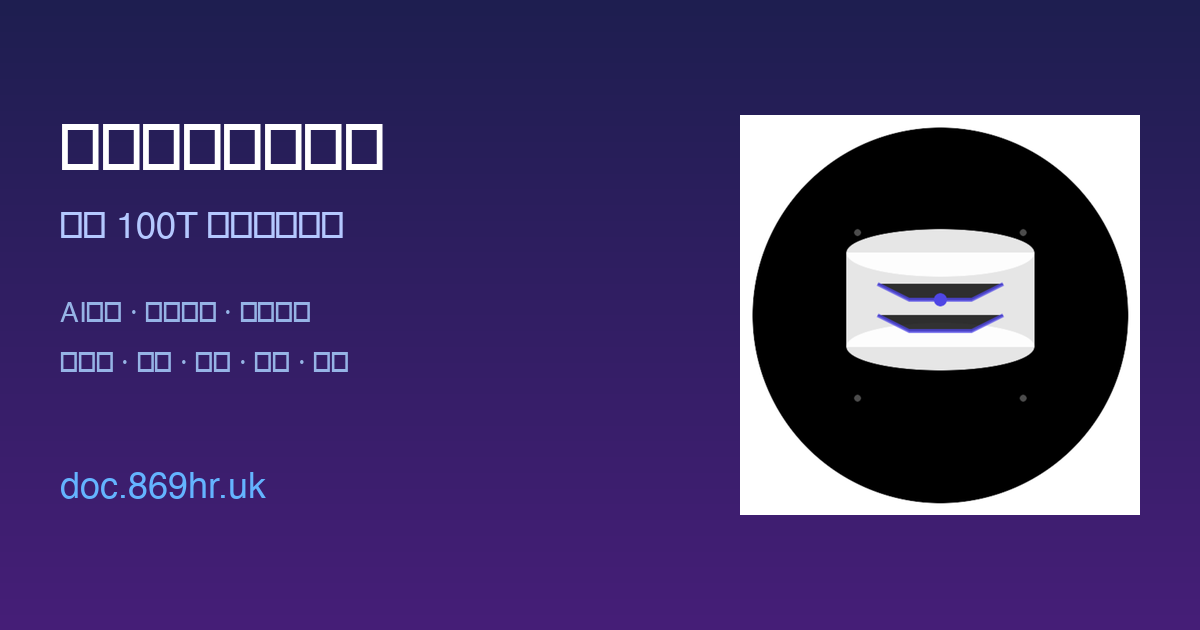
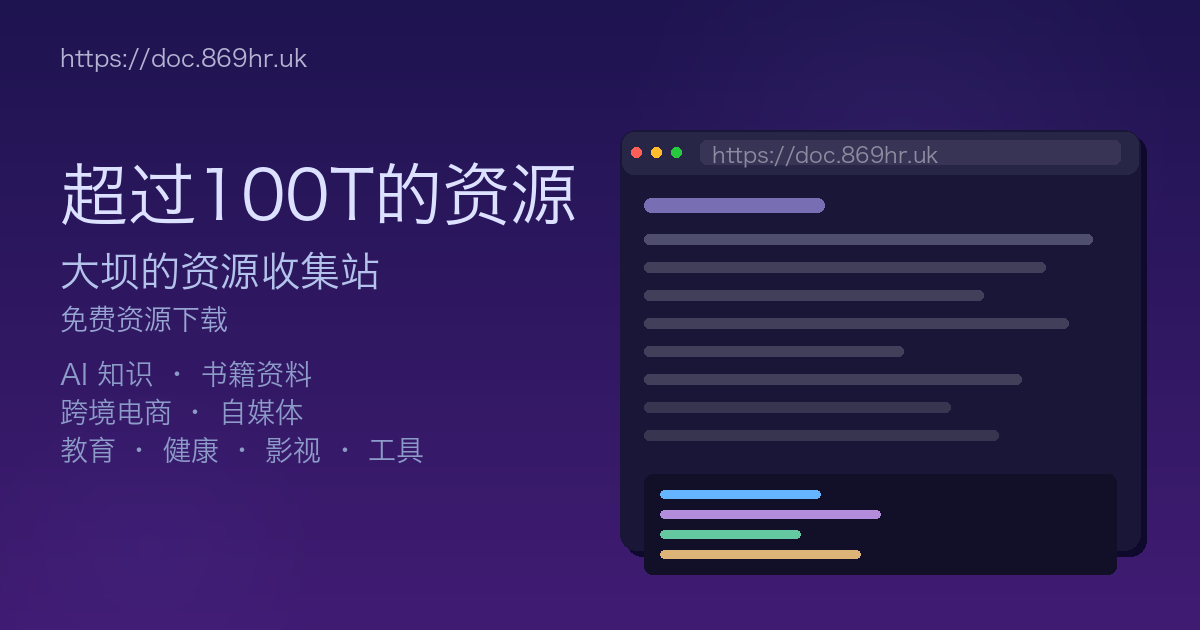
修复 OG 图片中文乱码：用冬青黑体重新渲染 Twitter 卡片缩略图
原图因生成工具缺少中文字体，中文被映射为拉丁字符。现用 Pillow + Hiragino Sans GB 重新生成，OCR 验证所有中文可正确识别。

diff --git a/scripts/generate_og_image.py b/scripts/generate_og_image.py
@@ -1,0 +1,191 @@
+#!/usr/bin/env python3
+"""Generate og-image.png for Twitter/OG cards with proper Chinese font rendering."""
+
+from PIL import Image, ImageDraw, ImageFont
+import math
+
+W, H = 1200, 630
+OUTPUT = "docs/public/og-image.png"
+
+# ── Fonts ──────────────────────────────────────────────
+font_path = "/System/Library/Fonts/Hiragino Sans GB.ttc"
+def load_font(size, weight="W6"):
+    """W6=Bold, W3=Regular"""
+    return ImageFont.truetype(font_path, size)
+
+font_url    = load_font(24, "W3")
+font_title  = load_font(68, "W6")
+font_sub    = load_font(40, "W3")
+font_tag    = load_font(28, "W3")
+font_code   = load_font(22, "W3")
+
+# ── Create image ───────────────────────────────────────
+img = Image.new("RGB", (W, H))
+draw = ImageDraw.Draw(img)
+
+# ── Background gradient ────────────────────────────────
+# Top: RGB(30, 20, 80), Bottom: RGB(60, 25, 110)
+for y in range(H):
+    t = y / H
+    r = int(30 + 35 * t)
+    g = int(20 + 8 * t)
+    b = int(80 + 35 * t)
+    draw.line([(0, y), (W, y)], fill=(r, g, b))
+
+# ── Subtle decorative elements ─────────────────────────
+# Large soft circle top-right
+cx, cy, cr = 900, 150, 300
+for y in range(max(0, cy - cr), min(H, cy + cr)):
+    for x in range(max(0, cx - cr), min(W, cx + cr)):
+        dx, dy = x - cx, y - cy
+        dist = math.sqrt(dx * dx + dy * dy)
+        if dist < cr:
+            alpha = max(0, 1 - dist / cr) * 0.06
+            r0, g0, b0 = img.getpixel((x, y))
+            r_new = int(r0 * (1 - alpha) + 180 * alpha)
+            g_new = int(g0 * (1 - alpha) + 150 * alpha)
+            b_new = int(b0 * (1 - alpha) + 255 * alpha)
+            draw.point((x, y), fill=(r_new, g_new, b_new))
+
+# Small glow bottom-left
+cx2, cy2, cr2 = 150, 550, 200
+for y in range(max(0, cy2 - cr2), min(H, cy2 + cr2)):
+    for x in range(max(0, cx2 - cr2), min(W, cx2 + cr2)):
+        dx, dy = x - cx2, y - cy2
+        dist = math.sqrt(dx * dx + dy * dy)
+        if dist < cr2:
+            alpha = max(0, 1 - dist / cr2) * 0.08
+            r0, g0, b0 = img.getpixel((x, y))
+            r_new = int(r0 * (1 - alpha) + 100 * alpha)
+            g_new = int(g0 * (1 - alpha) + 80 * alpha)
+            b_new = int(b0 * (1 - alpha) + 200 * alpha)
+            draw.point((x, y), fill=(r_new, g_new, b_new))
+
+# ── URL top-left ───────────────────────────────────────
+draw.text((60, 45), "https://doc.869hr.uk", fill=(180, 180, 210), font=font_url)
+
+# ── Main title ─────────────────────────────────────────
+# Gradient text: light blue to white
+title_y = 160
+draw.text((60, title_y), "超过100T的资源", fill=(220, 225, 255), font=font_title)
+
+# ── Subtitle ───────────────────────────────────────────
+draw.text((60, title_y + 90), "大坝的资源收集站", fill=(180, 195, 235), font=font_sub)
+
+# ── Tagline / description ──────────────────────────────
+draw.text((60, title_y + 145), "免费资源下载", fill=(150, 165, 210), font=font_tag)
+
+# ── Feature bullets ────────────────────────────────────
+features = [
+    "AI 知识 · 书籍资料",
+    "跨境电商 · 自媒体",
+    "教育 · 健康 · 影视 · 工具",
+]
+bullet_y = title_y + 200
+for i, feat in enumerate(features):
+    draw.text((60, bullet_y + i * 38), feat, fill=(140, 155, 200), font=font_tag)
+
+# ── Right side: Browser mockup ─────────────────────────
+panel_x, panel_y = 620, 130
+panel_w, panel_h = 520, 420
+
+# Shadow
+shadow_off = 6
+draw.rounded_rectangle(
+    [(panel_x + shadow_off, panel_y + shadow_off),
+     (panel_x + panel_w + shadow_off, panel_y + panel_h + shadow_off)],
+    radius=16, fill=(15, 10, 45)
+)
+
+# Panel body
+draw.rounded_rectangle(
+    [(panel_x, panel_y), (panel_x + panel_w, panel_y + panel_h)],
+    radius=16, fill=(25, 22, 55)
+)
+
+# Header bar
+header_h = 44
+draw.rounded_rectangle(
+    [(panel_x + 2, panel_y + 2), (panel_x + panel_w - 2, panel_y + header_h)],
+    radius=12, fill=(40, 38, 70)
+)
+
+# Browser dots
+dot_colors = [(255, 95, 87), (255, 189, 46), (39, 201, 63)]
+for i, color in enumerate(dot_colors):
+    dx = panel_x + 16 + i * 20
+    dy = panel_y + header_h // 2
+    draw.ellipse([(dx - 5, dy - 5), (dx + 5, dy + 5)], fill=color)
+
+# URL bar
+url_bar_x = panel_x + 80
+url_bar_w = panel_w - 100
+url_bar_h = 24
+draw.rounded_rectangle(
+    [(url_bar_x, panel_y + 10), (url_bar_x + url_bar_w, panel_y + 10 + url_bar_h)],
+    radius=6, fill=(55, 52, 85)
+)
+draw.text((url_bar_x + 12, panel_y + 13), "https://doc.869hr.uk", fill=(140, 140, 160), font=font_code)
+
+# Content area - simulated text lines
+content_x = panel_x + 24
+content_y = panel_y + header_h + 24
+line_w_full = panel_w - 48
+line_colors = [
+    (80, 78, 110),  # heading line
+    (65, 63, 90),   # body lines
+    (65, 63, 90),
+    (65, 63, 90),
+    (65, 63, 90),
+    (65, 63, 90),
+    (55, 53, 80),   # lighter
+    (55, 53, 80),
+    (55, 53, 80),
+]
+
+# A heading-like block
+draw.rounded_rectangle(
+    [(content_x, content_y), (content_x + 180, content_y + 14)],
+    radius=7, fill=(120, 110, 180)
+)
+
+# Body lines
+line_start_y = content_y + 36
+line_data = [
+    (0, 0.95), (0, 0.85), (0, 0.72), (0, 0.90),
+    (0, 0.55), (0, 0.80), (0, 0.65), (0, 0.75),
+]
+for i, (offset, ratio) in enumerate(line_data):
+    ly = line_start_y + i * 28
+    lw = int(line_w_full * ratio)
+    color_idx = min(i, len(line_colors) - 1)
+    draw.rounded_rectangle(
+        [(content_x + offset, ly), (content_x + offset + lw, ly + 10)],
+        radius=5, fill=line_colors[color_idx]
+    )
+
+# A card/code block
+card_y = line_start_y + len(line_data) * 28 + 16
+card_h = 100
+draw.rounded_rectangle(
+    [(content_x, card_y), (content_x + line_w_full, card_y + card_h)],
+    radius=8, fill=(18, 16, 40)
+)
+# Code lines inside card
+for i in range(4):
+    cl_y = card_y + 16 + i * 20
+    cl_w = [160, 220, 140, 200][i]
+    cl_color = [
+        (100, 180, 255),
+        (180, 140, 220),
+        (100, 200, 160),
+        (220, 180, 120),
+    ][i]
+    draw.rounded_rectangle(
+        [(content_x + 16, cl_y), (content_x + 16 + cl_w, cl_y + 8)],
+        radius=4, fill=cl_color
+    )
+
+# ── Save ───────────────────────────────────────────────
+img.save(OUTPUT, "PNG", optimize=True)
+print(f"Saved: {OUTPUT} ({W}x{H})")